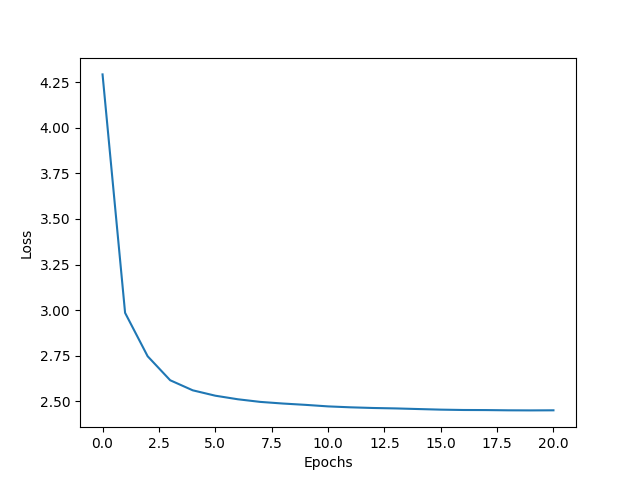
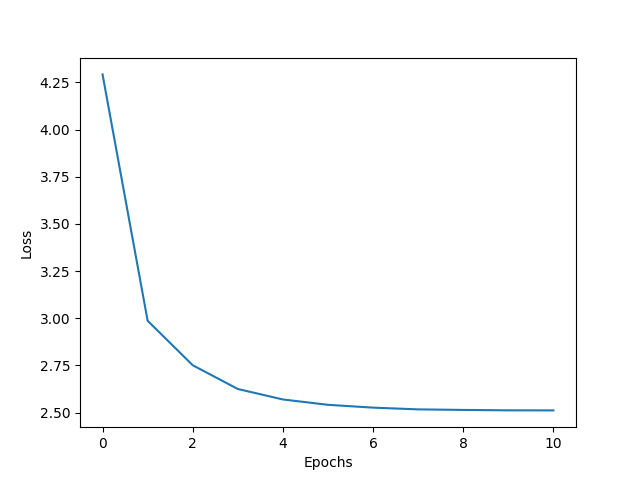
add code for testing checkpointing with optimizer and scheduler

diff --git a/train.py b/train.py
@@ -6,7 +6,7 @@ import matplotlib.pyplot as plt
 # hyperparameters
 batch_size = 64 # how many independent sequences will we process in parallel?
 block_size = 256 # what is the maximum context length for predictions?
-max_iters = 200
+max_iters = 100
 eval_interval = 10
 learning_rate = 3e-4
 device = 'cuda' if torch.cuda.is_available() else 'cpu'
@@ -77,7 +77,7 @@ losses_list_train = []
 # create a PyTorch optimizer
 optimizer = torch.optim.AdamW(model.parameters(), lr=learning_rate)
 scheduler = torch.optim.lr_scheduler.CosineAnnealingLR(optimizer, max_iters)
-for iter in range(100):
+for iter in range(50):
 
     # every once in a while evaluate the loss on train and val sets
     if iter % eval_interval == 0 or iter == max_iters - 1:
@@ -96,17 +96,18 @@ for iter in range(100):
     scheduler.step()
 
 # save the model
-state_dict = {"model": model.state_dict(), "optimizer": optimizer.state_dict(), "iter": iter, "scheduler": scheduler.state_dict()}
+state_dict = {"model": model.state_dict(), "optimizer": optimizer.state_dict(), "iter": iter, "scheduler": scheduler.state_dict(), "losses_list_train": losses_list_train, "losses_list_val": losses_list_val}
 model = CharLM(vocab_size, n_layer, block_size, n_embd, n_head, dropout=dropout, device=device)
 m = model.to(device)
 optimizer = torch.optim.AdamW(model.parameters(), lr=learning_rate)
 scheduler = torch.optim.lr_scheduler.CosineAnnealingLR(optimizer, max_iters)
-torch.save(state_dict, "model.pt")
 # load the model
 state_dict = torch.load("model.pt")
 model.load_state_dict(state_dict["model"])
 optimizer.load_state_dict(state_dict["optimizer"])
 scheduler.load_state_dict(state_dict["scheduler"])
+losses_list_train = state_dict["losses_list_train"]
+losses_list_val = state_dict["losses_list_val"]
 
 iter = state_dict["iter"]
 # Resume training

diff --git a/model.py b/model.py
@@ -248,7 +248,7 @@ def plot_loss(losses):
     plt.ylabel("Loss")
     plt.show()
 
-'''if __name__ == "__main__":
+if __name__ == "__main__":
     # testing the model
     model = CharLM(
         vocab_size=100,
@@ -297,4 +297,4 @@ def plot_loss(losses):
         optimizer.step()
     plot_loss(losses)
     #Save plot
-    plt.savefig("loss.png")'''
+    plt.savefig("loss.png")
